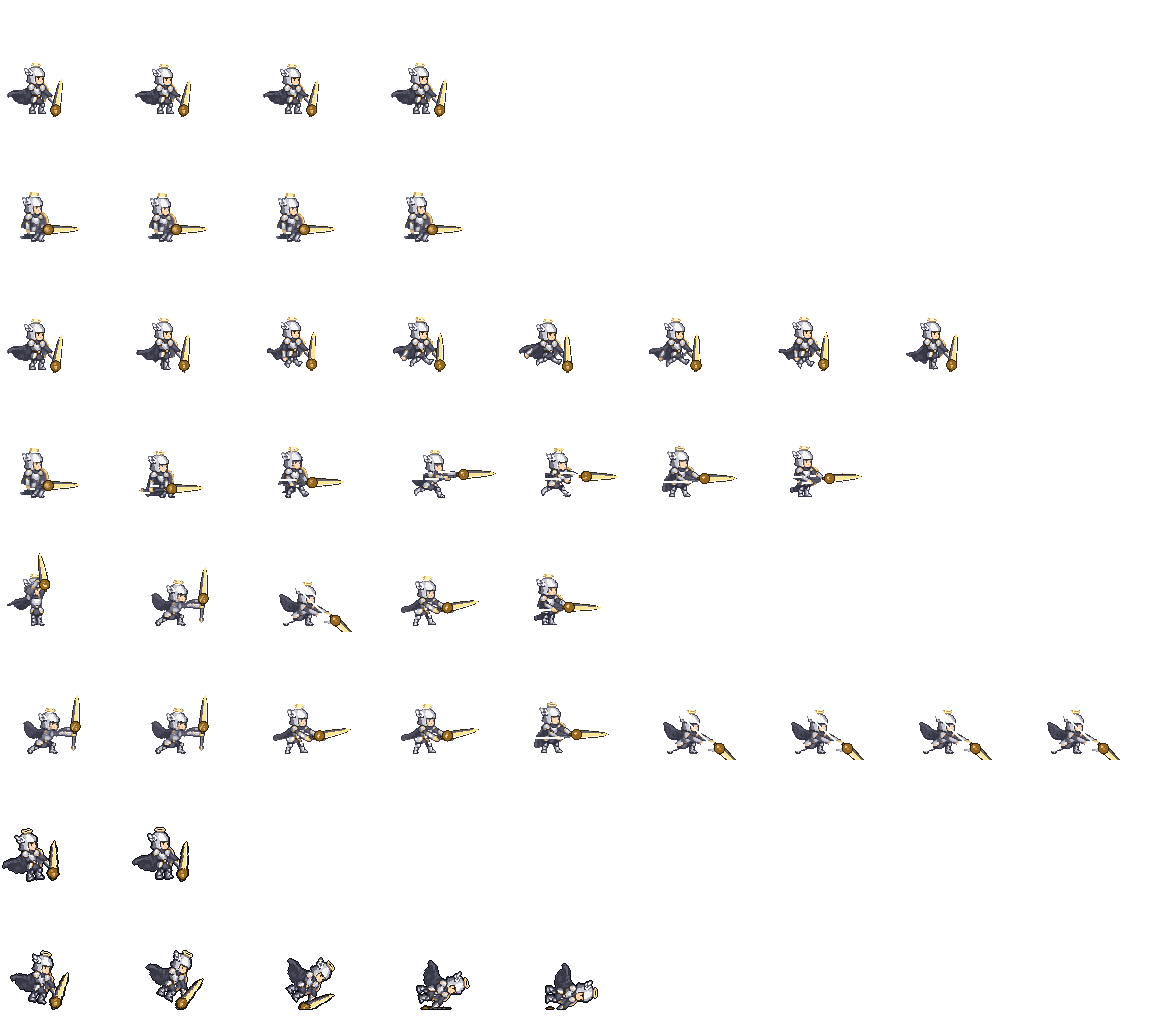
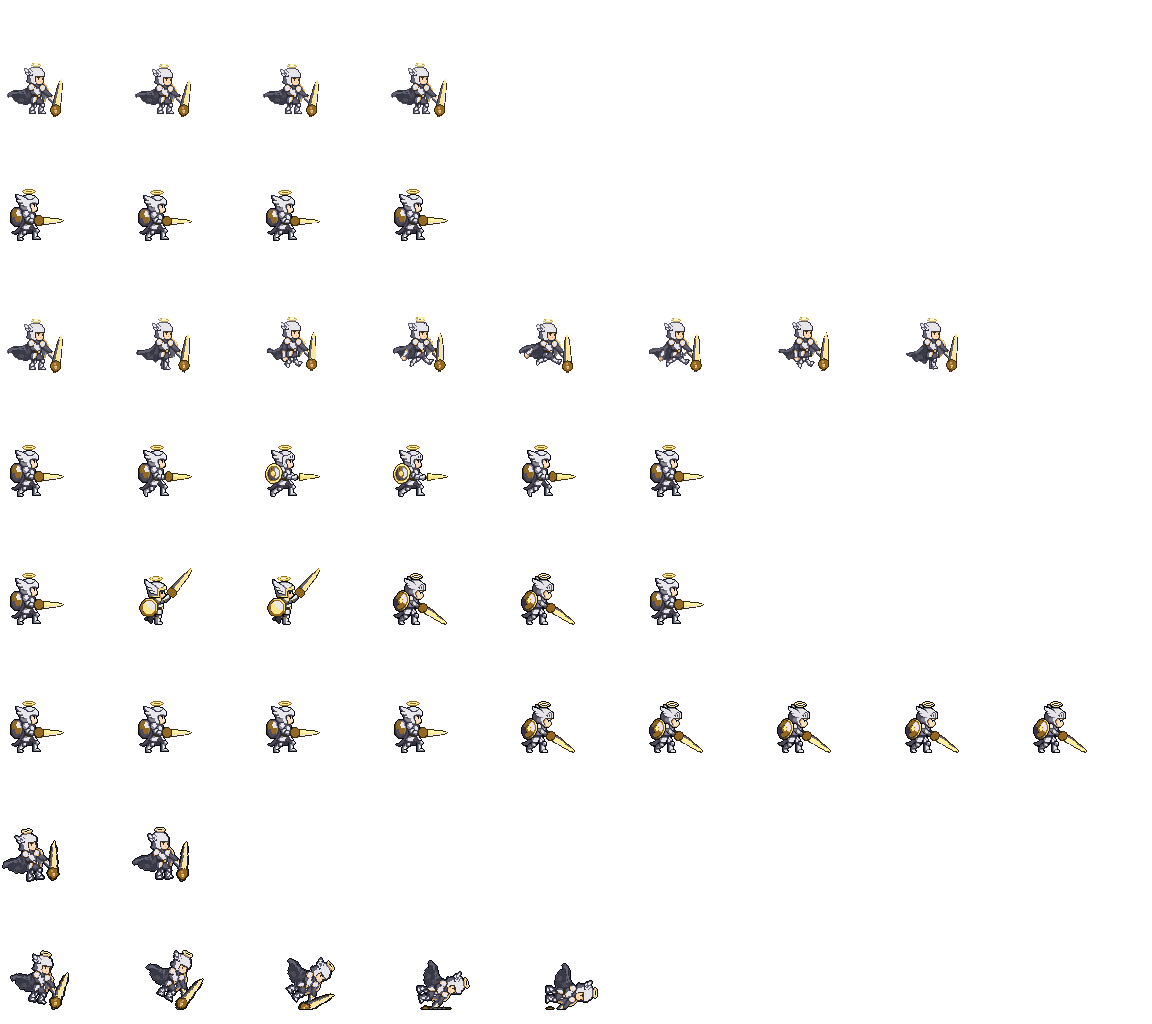
천마장군 평타를 키 자세(모델이 무기까지 같이 그림)로 교체, 합격 3.71

diff --git a/src/sprites/meta.js b/src/sprites/meta.js
@@ -31,7 +31,7 @@ const SHEET_META = {
   qigongB: {"w":96,"h":96,"foot":[33,87],"noLean":true,"anims":{"idle":{"row":0,"frames":4,"fps":4,"loop":true},"guard":{"row":1,"frames":4,"fps":6,"loop":true},"walk":{"row":2,"frames":4,"fps":6,"loop":true},"dash":{"row":3,"frames":2,"fps":12,"loop":true},"atkA":{"row":4,"frames":7,"fps":16,"loop":false,"hit":2},"atkB":{"row":5,"frames":8,"fps":16,"loop":false,"hit":3},"charge":{"row":6,"frames":4,"fps":10,"loop":true},"release":{"row":7,"frames":3,"fps":12,"loop":false,"hit":1},"skillA":{"row":8,"frames":4,"fps":12,"loop":false},"skillB":{"row":9,"frames":4,"fps":12,"loop":false},"hurt":{"row":10,"frames":2,"fps":12,"loop":false},"death":{"row":11,"frames":5,"fps":8,"loop":false},"sit":{"row":12,"frames":2,"fps":2,"loop":true}},"pts":{"idle":[[43,65,34,42],[43,65,34,42],[43,66,34,43],[43,66,34,43]],"guard":[[50,65,35,45],[50,65,35,45],[50,66,35,46],[50,66,35,46]],"walk":[[50,62,35,42],[50,63,35,43],[56,62,40,40],[56,63,40,41]],"dash":[[50,62,35,42],[56,62,40,40]],"atkA":[[50,65,35,45],[44,67,34,46],[67,66,42,47],[67,66,42,47],[59,64,36,46],[50,63,35,45],[50,63,36,45]],"atkB":[[50,63,35,45],[47,64,32,46],[44,66,31,47],[66,68,41,48],[67,68,42,48],[67,68,41,48],[56,63,36,46],[50,63,35,45]],"charge":[[47,64,32,46],[44,66,31,47],[47,64,32,46],[44,66,31,47]],"release":[[66,68,41,48],[67,68,42,48],[67,68,41,48]],"skillA":[[47,64,32,46],[44,66,31,47],[66,68,41,48],[67,68,42,48]],"skillB":[[47,64,32,46],[44,66,31,47],[44,66,31,47],[47,64,32,46]],"hurt":[[41,65,32,42],[42,65,33,42]],"death":[[41,65,32,42],[34,74,16,41],[42,74,23,57],[47,72,33,67],[46,71,24,67]],"sit":[[42,72,37,68],[42,73,37,69]]},"v":"4eac03e0"},
   ranger: {"w":75,"h":75,"foot":[33,67],"anims":{"idle":{"row":0,"frames":4,"fps":6,"loop":true},"guard":{"row":1,"frames":4,"fps":8,"loop":true},"walk":{"row":2,"frames":8,"fps":10,"loop":true},"atkA":{"row":3,"frames":8,"fps":14,"loop":false,"hit":5},"atkB":{"row":4,"frames":8,"fps":14,"loop":false,"hit":5},"cast":{"row":5,"frames":4,"fps":10,"loop":true,"key":"pull","val":[0,4.5,7.5,12]},"castUp":{"row":6,"frames":2,"fps":10,"loop":true,"key":"pull","val":[6,12]},"hurt":{"row":7,"frames":2,"fps":12,"loop":false},"death":{"row":8,"frames":5,"fps":8,"loop":false}},"pts":{"idle":[[50,43,22,28],[50,44,22,29],[50,44,22,29],[50,43,22,28]],"guard":[[50,44,22,29],[50,44,22,30],[50,44,22,30],[50,44,22,29]],"walk":[[47,49,20,30],[46,48,20,29],[48,46,20,27],[46,48,20,28],[41,44,21,30],[47,48,20,29],[46,47,20,27],[48,46,20,28]],"atkA":[[50,43,22,28],[49,44,22,28],[50,44,20,29],[48,44,19,29],[48,44,18,30],[48,46,20,29],[48,46,20,29],[50,43,22,28]],"atkB":[[46,46,30,26],[46,46,30,26],[46,45,30,27],[45,46,30,27],[45,46,30,27],[46,44,29,26],[48,48,33,28],[48,48,33,28]],"cast":[[50,43,22,28],[49,44,22,28],[50,44,20,29],[48,44,18,30]],"castUp":[[46,45,30,27],[45,46,30,27]],"hurt":[[48,43,20,28],[49,43,21,28]],"death":[[49,43,21,28],[39,44,30,28],[35,58,12,34],[30,57,7,40],[30,58,6,40]]},"v":"b06755ac"},
   siegeMaster: {"w":100,"h":100,"foot":[45,90],"anims":{"idle":{"row":0,"frames":4,"fps":6,"loop":true},"guard":{"row":1,"frames":4,"fps":8,"loop":true},"walk":{"row":2,"frames":8,"fps":10,"loop":true},"atkA":{"row":3,"frames":8,"fps":14,"loop":false,"hit":3},"atkB":{"row":4,"frames":8,"fps":14,"loop":false,"hit":4},"cast":{"row":5,"frames":2,"fps":10,"loop":true,"key":"pull","val":[0,4.5]},"castUp":{"row":6,"frames":2,"fps":10,"loop":true,"key":"pull","val":[6,12]},"hurt":{"row":7,"frames":2,"fps":12,"loop":false},"death":{"row":8,"frames":5,"fps":8,"loop":false}},"pts":{"idle":[[61,69,46,48],[61,69,46,48],[61,69,46,48],[61,69,46,48]],"guard":[[61,69,46,48],[61,70,46,49],[61,70,46,49],[61,69,46,48]],"walk":[[72,64,46,48],[72,64,46,47],[72,63,46,47],[72,63,46,47],[72,64,46,48],[72,64,46,47],[72,63,46,47],[72,63,46,47]],"atkA":[[61,69,46,48],[62,66,47,48],[62,66,47,48],[59,66,44,48],[60,66,45,48],[61,66,45,48],[61,66,46,48],[61,69,46,48]],"atkB":[[65,67,44,49],[64,58,43,49],[58,64,41,51],[55,72,41,53],[55,66,38,51],[59,65,40,51],[61,63,41,49],[62,64,44,48]],"cast":[[61,69,46,48],[62,66,47,48]],"castUp":[[64,58,43,49],[55,72,41,53]],"hurt":[[59,69,44,48],[60,69,45,48]],"death":[[60,69,45,48],[52,76,34,48],[48,76,23,51],[44,73,13,61],[43,79,23,63]]},"v":"d228c061"},
-  skyGeneral: {"w":100,"h":100,"foot":[28,87],"anims":{"idle":{"row":0,"frames":4,"fps":6,"loop":true},"guard":{"row":1,"frames":4,"fps":8,"loop":true},"walk":{"row":2,"frames":8,"fps":10,"loop":true},"atkA":{"row":3,"frames":7,"fps":14,"loop":false,"hit":2},"atkB":{"row":4,"frames":5,"fps":14,"loop":false,"hit":1},"cast":{"row":5,"frames":9,"fps":10,"loop":true,"key":"wa","val":[-1.57,-1.2,-0.8,-0.4,0,0.4,0.8,1.2,1.57],"wrap":false},"hurt":{"row":6,"frames":2,"fps":12,"loop":false},"death":{"row":7,"frames":5,"fps":8,"loop":false}},"pts":{"idle":[[48,67,27,49],[48,68,27,50],[48,68,27,50],[48,67,27,49]],"guard":[[62,79,26,50],[62,79,26,51],[62,79,26,51],[62,79,26,50]],"walk":[[48,67,27,49],[48,70,27,48],[47,82,27,48],[46,76,27,48],[46,80,27,49],[47,81,27,48],[47,73,27,48],[48,69,27,48]],"atkA":[[62,79,26,50],[58,81,26,51],[68,76,28,49],[87,69,39,51],[82,72,36,50],[75,73,31,48],[73,72,27,48]],"atkB":[[38,56,30,32],[62,67,60,43],[65,82,40,55],[73,69,34,50],[69,74,28,48]],"cast":[[62,67,60,43],[62,67,60,43],[73,69,34,50],[73,69,34,50],[75,73,31,48],[65,82,40,55],[65,82,40,55],[65,82,40,55],[65,82,40,55]],"hurt":[[46,82,22,47],[47,71,24,46]],"death":[[53,63,33,42],[58,65,41,42],[61,57,50,48],[66,70,36,50],[66,76,41,52]]},"v":"9ab36ce6"},
+  skyGeneral: {"w":100,"h":100,"foot":[28,87],"anims":{"idle":{"row":0,"frames":4,"fps":6,"loop":true},"guard":{"row":1,"frames":4,"fps":8,"loop":true},"walk":{"row":2,"frames":8,"fps":10,"loop":true},"atkA":{"row":3,"frames":6,"fps":14,"loop":false,"hit":2},"atkB":{"row":4,"frames":6,"fps":14,"loop":false,"hit":2},"cast":{"row":5,"frames":9,"fps":10,"loop":true,"key":"wa","val":[-1.57,-1.2,-0.8,-0.4,0,0.4,0.8,1.2,1.57],"wrap":false},"hurt":{"row":6,"frames":2,"fps":12,"loop":false},"death":{"row":7,"frames":5,"fps":8,"loop":false}},"pts":{"idle":[[48,67,27,49],[48,68,27,50],[48,68,27,50],[48,67,27,49]],"guard":[[49,72,22,48],[49,73,22,48],[49,73,22,48],[49,72,22,48]],"walk":[[48,67,27,49],[48,70,27,48],[47,82,27,48],[46,76,27,48],[46,80,27,49],[47,81,27,48],[47,73,27,48],[48,69,27,48]],"atkA":[[49,72,22,48],[49,72,22,48],[49,72,22,48],[49,72,22,48],[49,72,22,48],[49,72,22,48]],"atkB":[[49,72,22,48],[49,45,48,44],[49,45,48,44],[44,82,24,48],[44,82,24,48],[49,72,22,48]],"cast":[[49,72,22,48],[49,72,22,48],[49,72,22,48],[49,72,22,48],[44,82,24,48],[44,82,24,48],[44,82,24,48],[44,82,24,48],[44,82,24,48]],"hurt":[[46,82,22,47],[47,71,24,46]],"death":[[53,63,33,42],[58,65,41,42],[61,57,50,48],[66,70,36,50],[66,76,41,52]]},"v":"07ce3f4b"},
   squire: {"w":64,"h":64,"foot":[28,59],"anims":{"idle":{"row":0,"frames":2,"fps":3,"loop":true},"walk":{"row":1,"frames":4,"fps":8,"loop":true},"atkA":{"row":2,"frames":7,"fps":12,"loop":false,"hit":2},"cast":{"row":3,"frames":6,"fps":8,"loop":true},"hurt":{"row":4,"frames":2,"fps":12,"loop":false}},"pts":{"idle":[[37,37,30,23],[37,37,30,24]],"walk":[[37,37,30,23],[37,37,30,23],[37,37,30,23],[37,37,30,23]],"atkA":[[37,37,30,23],[37,37,36,8],[37,37,30,20],[37,37,34,22],[37,37,34,22],[37,37,30,24],[37,37,30,23]],"cast":[[37,37,30,23],[37,37,31,18],[37,37,31,18],[37,37,43,6],[37,37,43,6],[37,37,31,18]],"hurt":[[37,37,28,23],[37,37,29,23]]},"v":"5d7633c8"},
   striker: {"w":64,"h":64,"foot":[32,58],"anims":{"idle":{"row":0,"frames":4,"fps":6,"loop":true},"guard":{"row":1,"frames":4,"fps":8,"loop":true},"walk":{"row":2,"frames":6,"fps":10,"loop":true},"dash":{"row":3,"frames":2,"fps":12,"loop":true},"atkA":{"row":4,"frames":4,"fps":14,"loop":false,"hit":1},"atkB":{"row":5,"frames":4,"fps":14,"loop":false,"hit":1},"charge":{"row":6,"frames":4,"fps":10,"loop":true},"release":{"row":7,"frames":3,"fps":12,"loop":false,"hit":1},"skillA":{"row":8,"frames":4,"fps":14,"loop":true,"hit":0},"skillB":{"row":9,"frames":4,"fps":14,"loop":false,"hit":1},"hurt":{"row":10,"frames":2,"fps":12,"loop":false},"death":{"row":11,"frames":5,"fps":8,"loop":false},"sit":{"row":12,"frames":2,"fps":2,"loop":true}},"pts":{"idle":[[52,40,33,22],[52,41,33,23],[52,41,33,23],[52,40,33,22]],"guard":[[51,37,33,22],[51,38,33,23],[51,38,33,23],[51,37,33,22]],"walk":[[51,38,33,21],[51,40,33,20],[51,40,34,20],[51,41,34,21],[50,41,34,20],[51,40,33,19]],"dash":[[52,48,44,24],[40,33,34,23]],"atkA":[[50,38,32,23],[62,35,32,20],[62,35,32,20],[54,39,33,24]],"atkB":[[53,42,35,23],[61,34,33,21],[61,34,33,21],[54,40,34,24]],"charge":[[53,42,35,23],[51,47,37,23],[47,49,36,22],[46,41,36,22]],"release":[[51,47,37,23],[61,34,33,21],[61,34,33,21]],"skillA":[[62,35,32,20],[54,39,33,24],[61,34,33,21],[54,40,34,24]],"skillB":[[47,49,36,22],[50,17,44,9],[50,17,44,9],[51,37,33,22]],"hurt":[[51,40,33,24],[52,40,34,24]],"death":[[50,49,35,23],[49,51,36,24],[48,51,36,25],[52,49,40,35],[56,51,41,41]],"sit":[[47,51,34,22],[46,50,35,24]]},"v":"42b8a32e"},
   strikerB: {"w":96,"h":96,"foot":[33,87],"noLean":true,"anims":{"idle":{"row":0,"frames":4,"fps":4,"loop":true},"guard":{"row":1,"frames":4,"fps":6,"loop":true},"walk":{"row":2,"frames":4,"fps":6,"loop":true},"dash":{"row":3,"frames":2,"fps":12,"loop":true},"atkA":{"row":4,"frames":7,"fps":16,"loop":false,"hit":2},"atkB":{"row":5,"frames":8,"fps":16,"loop":false,"hit":3},"charge":{"row":6,"frames":4,"fps":10,"loop":true},"release":{"row":7,"frames":3,"fps":12,"loop":false,"hit":1},"skillA":{"row":8,"frames":4,"fps":12,"loop":false},"skillB":{"row":9,"frames":4,"fps":12,"loop":false},"hurt":{"row":10,"frames":2,"fps":12,"loop":false},"death":{"row":11,"frames":5,"fps":8,"loop":false},"sit":{"row":12,"frames":2,"fps":2,"loop":true}},"pts":{"idle":[[47,69,33,43],[47,69,33,43],[47,70,33,44],[47,70,33,44]],"guard":[[51,64,35,47],[51,64,35,47],[51,65,35,48],[51,65,35,48]],"walk":[[49,59,35,36],[49,60,35,37],[50,63,34,39],[50,64,34,40]],"dash":[[49,59,35,36],[50,63,34,39]],"atkA":[[51,64,35,47],[52,63,35,48],[67,66,36,49],[67,66,36,48],[62,66,35,48],[51,64,35,47],[50,64,35,47]],"atkB":[[50,64,35,47],[45,64,34,47],[63,66,40,48],[71,67,44,48],[71,67,44,48],[64,65,42,48],[52,63,36,47],[50,64,35,47]],"charge":[[45,64,34,47],[45,64,34,47],[50,64,35,47],[45,64,34,47]],"release":[[63,66,40,48],[71,67,44,48],[64,65,42,48]],"skillA":[[67,66,36,49],[71,67,44,48],[67,66,36,48],[71,67,44,48]],"skillB":[[45,64,34,47],[63,66,40,48],[71,67,44,48],[71,67,44,48]],"hurt":[[45,69,31,43],[46,69,32,43]],"death":[[45,69,31,43],[38,65,16,42],[43,71,19,52],[47,67,27,58],[45,68,27,59]],"sit":[[43,74,24,44],[42,73,24,45]]},"v":"07d173a5"},

diff --git a/dev/review/sheets-spear.html b/dev/review/sheets-spear.html
@@ -44,7 +44,7 @@
 <tr><td>창기사</td><td class="ok">4.00 pass</td></tr><tr><td>용기병</td><td class="ok">3.71 pass (걷기 튀는 1장 뺌)</td></tr>
 <tr><td>할버디어</td><td class="ok">3.71 pass</td></tr><tr><td>랜서</td><td class="ok">3.71 pass (랜스가 검처럼 읽힌다는 의견)</td></tr>
 <tr><td>전쟁군주</td><td class="ok">3.57 pass (걷기 튀는 2장 뺌)</td></tr>
-<tr><td>천마장군</td><td>미적용 — 계정 잔량이 멈춤 기준(380)에 닿아 지금 판 유지</td></tr></table>
+<tr><td>천마장군</td><td class="ok">3.71 pass (1차 3.29 → 키4 기준 돌진 2장 재편집)</td></tr></table>
 GIF 는 아래 ◈ 표의 같은 파일(<code>sheets-spear/anim/&lt;cls&gt;-anim.gif</code>)이 새 평타로 바뀌었다.</div>
 
 <h2>◈ 4종 통짜 시트 (관절 애니, 2026-10-17) — 시험 주소로 켜 보기</h2>

diff --git a/dev/spear/key_assemble.py b/dev/spear/key_assemble.py
@@ -14,7 +14,9 @@ from wpn import line_fit
 SEQ = {'default': [4, 1, 2, 3, 3, 4]}   # 원본(정지 그림)은 키와 인상이 달라 뺀다 — 마무리 키(대기 자세)로 시작·끝 (용황 시험 교훈)
 # 용황: 합격 정지 그림(검은 머리)과 pixen 키(금발) 인상이 달라 원본을 빼고, 잘 나온 찌르기 키2 를 새 기준(dragonlord-key2-src64)으로 재편집한 대기·준비를 쓴다
 #  (검수 k1 3.00: 얼굴·머리색 튐, 준비 키 발치 꼬리 모양). 재편집 '들기'는 창이 두 자루라 안 씀
-SEQ_CLS = {'dragonlord': {'thrust': ['key-ready', 'key-windup', 'dragonlord-key2-src64', 3, 3, 'key-ready'],
+SEQ_CLS = {'skyGeneral': {'thrust': ['key-thrust-4', 'key-lunge1', 'key-lunge2', 'key-lunge2', 'key-lunge1', 'key-thrust-4'],   # 찌르기 키2·3 손이 보호대 뒤에 가려 떠 보임 → 키4 기준 재편집 2장
+                           'slam': ['key-thrust-4', 1, 1, 3, 3, 'key-thrust-4']},   # 내리찍기 키2·4 안 옴 → 들기 반복, 마무리는 찌르기 키4
+           'dragonlord': {'thrust': ['key-ready', 'key-windup', 'dragonlord-key2-src64', 3, 3, 'key-ready'],
                           'slam': ['key-ready', 2, 2, 3, 3, 'key-ready']}}
 WALK_DROP = {'warlord': [4, 6], 'dragoon': [2]}                      # 검사 세션 점검: 전쟁군주 walk5·7, 용기병 walk3 (1부터 센 번호)
 

diff --git a/dev/spear/spear_keys.py b/dev/spear/spear_keys.py
@@ -37,7 +37,7 @@ POSE = {
              'recovering to a ready stance, holding the halberd upright beside the body'],
 }
 ATK = {c: ('sweep', 'chop') if c in ('halberdier', 'warlord') else ('thrust', 'slam') for c in PIC}
-FLOOR_STOP = 380
+FLOOR_STOP = 310          # 2026-10-18 로드맵: 380 → 310
 
 
 def src(cls):

diff --git a/docs/specs/legacy-class-sheets.md b/docs/specs/legacy-class-sheets.md
@@ -242,6 +242,7 @@
 - 2026-10-17 할버디어 평타 처음부터 재생성 (사용자 "개선해라", usage 4, 누계 94/110): 빈손 중립 첫 프레임 + 캐릭터·동작 설명에서 무기 단어를 빼고 "empty hands, no weapon, no polearm, no effects" (`skel.py sweepE/chopupE`) → **모델이 무기를 아예 안 그림** → 손 찾기 + 설계 각도로 코드 할버드만(`anim_post.py FIXED`). 1차 검수 3.14(휩쓸기 중간에 수직·찌르기·웅크림 섞임) → 그 3장 빼서 평타A 4장 → **3.57 pass**. 예비 1회(4) 안 씀. 교훈: 무기를 코드로 그릴 직업은 처음부터 빈손 설명으로 생성하면 잔해 지우기가 필요 없다 (다음 계열 기본값으로).
 - 2026-10-17 창기사 계열 완료: 로드맵이 사용자 승인을 받아 7종 `SHEET_ON` true, main 0.25.0 배포(13a88ed). PixelLab 계열 누계 usage 94 (cap 110). 도구 흐름: `design5.py`(시안) → `pix.py`(정리·수리·코드 무기) → `skelfit.py`(첫 프레임·관절 맞춤·묶음 요청) → `plx.py skel` → `anim_post.py` → `assemble.py` → `build.py --install` → `node dev/boxer/sheet-meta.js`. 검토 `dev/review/sheets-spear.html` ◈절.
 - 2026-10-18 창기사 계열 무기·모션 일치 재작업 (사용자 "창기사쪽도 모션이 무기랑 안맞는애가 있엇어", 로드맵 승인 최대 76, 사용 47, 누계 141/180): 검사 12단계 B 방식 — 합격 정지 그림(무기 든 채)을 pixen 키 자세 4개 × 평타 2종으로 편집해 모델이 무기까지 같이 그린 프레임만 쓴다(`spear_keys.py`, `key_assemble.py`, 코드 덧그리기 없음). 6종 교체·합격: 용황 3.57(1차 3.00 — 원본과 키의 인상 차이 → 잘 나온 키를 새 기준으로 재편집 3) · 창기사 4.00 · 용기병 3.71 · 할버디어 3.71 · 랜서 3.71 · 전쟁군주 3.57. 걷기는 지금 판, 지적 프레임만 뺌(용기병 1, 전쟁군주 2). **천마장군은 계정 잔량이 멈춤 기준 380 에 닿아 미적용(지금 판)**. pixen 이 그림 없이 비용만 든 호출 2회(용황 내리찍기 키4, 용기병 내리찍기 키2). 0.78 축소는 `rescale.py` 가 원본 폴더 전체를 다시 만들므로 다른 계열 시트 변경은 되돌리고 6종만 커밋.
+- 2026-10-18 천마장군 평타 키 자세 교체 (사용자 "남은일도 지금 처리해", 멈춤 기준 310, usage 10, 누계 155): 키 8 중 내리찍기 2·4 안 옴 → 1차 3.29(오지 않은 키 자리에 예전 정지 그림이 들어가 다른 캐릭터로 보임, 찌르기 키2·3 손이 보호대 뒤에 가려 떠 보임) → 찌르기 키4 를 기준으로 돌진 2장 재편집 → **3.71 pass**. 창기사 계열 7종 평타 모두 키 자세(모델이 무기까지 같이 그림)로 교체 완료. 교훈: 오지 않은 키는 원본 정지 그림으로 메우지 말고 같은 편집 묶음의 다른 키로 메운다.
 - 2026-10-18: **2단계 애니 합격** (pixen 키 자세 12, 승인 13 안): 성기사 시전 3.86/3.86, 검사 평타 3.71/3.86, 검사 시전 3.86/3.86 (sonnet 비평 2개). `anim_build.py`(발 맞춤·팔레트 고정, 검사 43색→22색, 성기사 cast1 좌우 반전), `anim/run_keys2.sh`(설명 500자 검사·usage>1 멈춤). 검사 평타는 skeleton 대신 키 자세(비용·성공률). 계열 누적 56. **검성·대검전사 재디자인 합격**: 검성 14차 97번 + `fix_bm14.py` 3.71/4.0 (IoU 0.673 — 목표 0.6 못 맞춤), 대검전사 15차 37번(init 에 대검 합성 `design.py init_gs`) 3.57/3.86 (IoU 0.558). 색깔놀이 검사 `sil_iou.py` 는 발 기준 정렬로 고침.
 
 - 2026-10-18: 3단계 (로드맵 승인 14, 모두 usage 1.0, 계열 누적 70). 검성 평타 4.0/3.86·시전 4.0/3.57, 대검전사 시전 3.57/3.57 합격. **대검전사 평타 미달**: key3 칼끝 분리 → 조각 지우기 실패 → 짧은 판(타격 = 시전 3번) 3.71/3.29. 4종 시트 조립 `build_sheets.py` → `src/sprites/{paladin,swordsman,blademaster,greatswordsman}.png/.json` (idle 2·walk 4 임시 들썩임·atkA 7(복귀 보간)·cast 6·hurt 2, 64칸, 발 (28,59)), meta.js 다시 묶음. `?sheetsOn=` 로 4종 모두 실림 확인(heroTop 71~74). SHEET_ON 은 false 그대로. 남은 일: 대검전사 평타 내려찍기 다시 편집(1~2), 걷기 애니(4종), 성기사 평타 칼 길이·후광.
@@ -286,7 +287,7 @@
 - 2026-10-18: 12단계 A 추가 (사용자 "가츠 3차도 맞춰서 바꿔줘야지"): 파천검왕을 가츠 판 대검전사를 부모로 다시(`tyrant_g`, 늑대 머리 광전사 갑옷·붉은 눈·쇳덩이 대검, 15) → 23번. 12단계 B (동작, `newanim/run_keys.sh`·`run_fix.sh`·`build_new.py`·`NEW=1 skel_walk.py`): 평타 pixen 키 3·시전 2·걷기 skeleton 8f, 칼은 모델이 그린 것만. 비평 2개 기준 합격 = 견습·검사(전부), 대검전사·검신·검성(평타·시전), 성좌기사·파천검왕(평타). 정면 준비 그림 ↔ 옆모습 키 끊김 → 성기사·성좌기사·검성·파천검왕은 대기·준비·시전을 옆모습 c1 로 통일. 짧은 판 = 성기사 평타, 성기사·성좌기사·파천검왕 시전. 임시 걷기 = 견습·검사 외 6종. 파천검왕 감마 0.72 로 밝힘. 누적 390/440, 계정 잔량 362(바닥 310). SHEET_ON 8종 false 유지 — 켤지 사용자 결정.
 
 ## 남은 일 / 미정
-- 창기사 계열 남은 일 (2026-10-18): 천마장군 평타를 키 자세 방식으로 교체(잔량 회복 뒤 8회). 선택: 랜서 랜스가 검처럼 읽힘, 용기병 어두운 보라 명암, 전쟁군주 평타 일부 읽힘 약함, 걷기는 예전 생성이라 평타 키와 인상이 조금 다름.
+- 창기사 계열 남은 일 (2026-10-18): 선택: 랜서 랜스가 검처럼 읽힘, 용기병 어두운 보라 명암, 전쟁군주 평타 일부 읽힘 약함, 걷기는 예전 생성이라 평타 키와 인상이 조금 다름.
 - 창기사 계열 7종 모두 켜짐 (상태: 완료, 사용자 승인 2026-10-17). 남은 흠(선택): 창기사·용기병 평타A 예비동작(창 뒤로 당김) 약함, 랜서 평타B 앞 두 장 몸이 돌아섬, 할버디어 평타A 4장(휩쓸기 중간 3장 뺌), 천마장군 평타B 5장(잔재 2장 뺌), 전쟁군주 평타A 6장. 다시 손댈 때는 **빈손 설명으로 생성 + 코드 무기**(할버디어 교훈)로 해당 동작만 15f 다시 뽑는다. 랜서 방패는 정지 그림에서 잘라 합성(`anim_post.py SHIELD`) — 방패 위치가 몸 위에 겹치는 프레임이 있다.
 - 2026-10-17 (로드맵, 레인저 교훈): skeleton-v3 는 첫 프레임이 무기를 겨눈 자세면 팔 관절을 따르지 않고 그 팔 모양을 지킨다(다리는 따름). 관절 애니 첫 프레임은 "팔 내린 중립 대기·빈손·무기 없음"으로 — 기준 그림이 무기를 든 자세면 계획서에 `edit-image-pixen` 중립 편집 1회(usage 1)를 넣는다. 첫 프레임 뼈 길이에 맞추면 팔이 짧아지니 목표 손 위치에서 관절 각도를 역산(레인저 `skelgen.py` `solve_hands` 참고).
 - 마법사 계열 7종 모두 켜짐 (상태: 완료, 사용자 승인). 남은 흠: 대마도사 불꽃 고리·뇌제 번개 바퀴는 스킬 VFX 쪽 일(머리 뒤 장식, 시트에는 없음), 마법사·뇌전술사·3차 지팡이는 게임 지팡이 1.5배 확대 계단. 계열 PixelLab 97/115.

diff --git a/dev/spear/usage.md b/dev/spear/usage.md
@@ -102,3 +102,13 @@
 | 96 | warlord | `/edit-image-pixen` | key-chop-2: same young chibi heavy warlord knight with a bull-horned iro | 1.0 | 143.0 | 390.0 |
 | 97 | warlord | `/edit-image-pixen` | key-chop-3: same young chibi heavy warlord knight with a bull-horned iro | 1.0 | 144.0 | 386.0 |
 | 98 | warlord | `/edit-image-pixen` | key-chop-4: same young chibi heavy warlord knight with a bull-horned iro | 1.0 | 145.0 | 385.0 |
+| 99 | skyGeneral | `/edit-image-pixen` | key-thrust-1: same young chibi sky general knight with a white and gold wi | 1.0 | 146.0 | 360.0 |
+| 100 | skyGeneral | `/edit-image-pixen` | key-thrust-2: same young chibi sky general knight with a white and gold wi | 1.0 | 147.0 | 358.0 |
+| 101 | skyGeneral | `/edit-image-pixen` | key-thrust-3: same young chibi sky general knight with a white and gold wi | 1.0 | 148.0 | 355.0 |
+| 102 | skyGeneral | `/edit-image-pixen` | key-thrust-4: same young chibi sky general knight with a white and gold wi | 1.0 | 149.0 | 353.0 |
+| 103 | skyGeneral | `/edit-image-pixen` | key-slam-1: same young chibi sky general knight with a white and gold wi | 1.0 | 150.0 | 351.0 |
+| 104 | skyGeneral | `/edit-image-pixen` | key-slam-2: same young chibi sky general knight with a white and gold wi | 1.0 | 151.0 | 350.0 |
+| 105 | skyGeneral | `/edit-image-pixen` | key-slam-3: same young chibi sky general knight with a white and gold wi | 1.0 | 152.0 | 350.0 |
+| 106 | skyGeneral | `/edit-image-pixen` | key-slam-4: same young chibi sky general knight with a white and gold wi | 1.0 | 153.0 | 349.0 |
+| 107 | skyGeneral | `/edit-image-pixen` | key-lunge1: same young chibi sky general knight with a white and gold wi | 1.0 | 154.0 | 346.0 |
+| 108 | skyGeneral | `/edit-image-pixen` | key-lunge2: same young chibi sky general knight with a white and gold wi | 1.0 | 155.0 | 345.0 |
